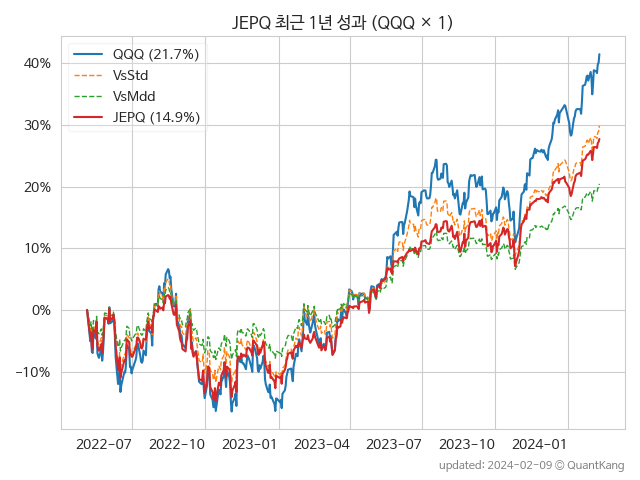
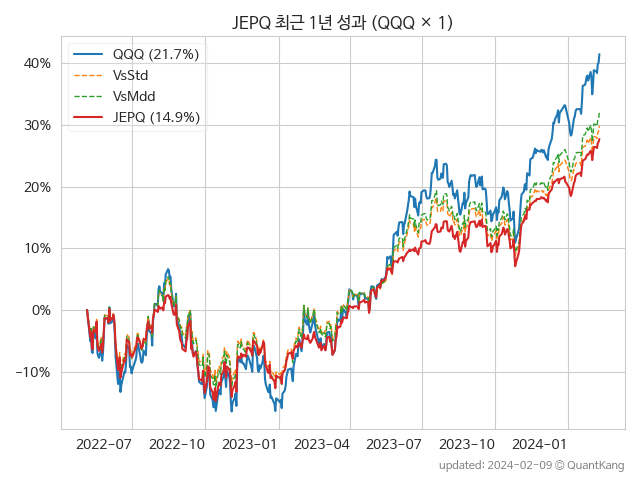
jepq test

diff --git a/_posts/lev/2024-02-09-jepq.md b/_posts/lev/2024-02-09-jepq.md
@@ -26,7 +26,7 @@ categories:
 | JEPQ | <span style="color: tomato">14.9<small>%</small></span> | 17.3% | 0.86 | -16.8<small>%</small> | -4.4<small>%</small> |
 | QQQ | <span style="color: tomato">21.7<small>%</small></span> | 23.8% | 0.91 | -21.6<small>%</small> | -6.8<small>%</small> |
 | STD eq<small>[^fn_lev_ideal]</small> | <span style="color: tomato">15.9<small>%</small></span> | 17.3% | 0.92 | -16.0<small>%</small> | -4.8<small>%</small> |
-| MDD eq<small>[^fn_lev_ideal_daily]</small> | <span style="color: tomato">11.1<small>%</small></span> | 11.9% | 0.93 | -11.3<small>%</small> | -3.3<small>%</small> |
+| MDD eq<small>[^fn_lev_ideal_daily]</small> | <span style="color: tomato">17.0<small>%</small></span> | 18.5% | 0.92 | -17.1<small>%</small> | -5.2<small>%</small> |
 
 <br>
 
